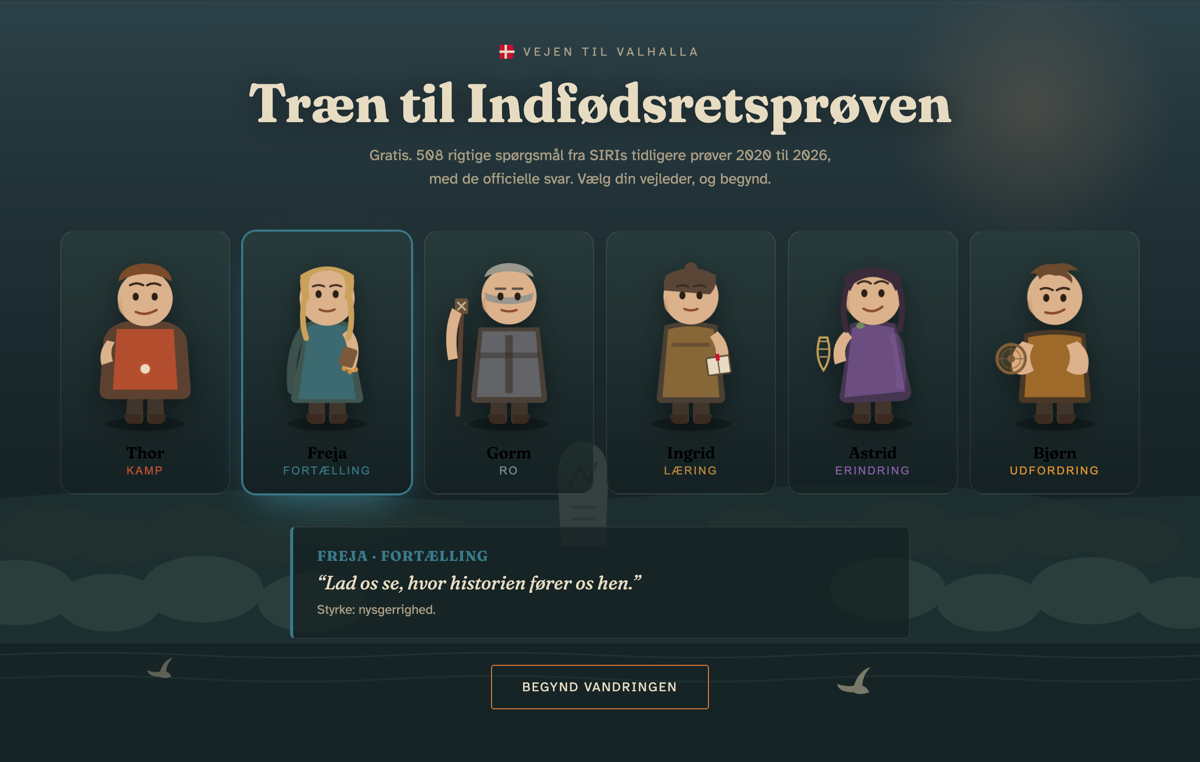
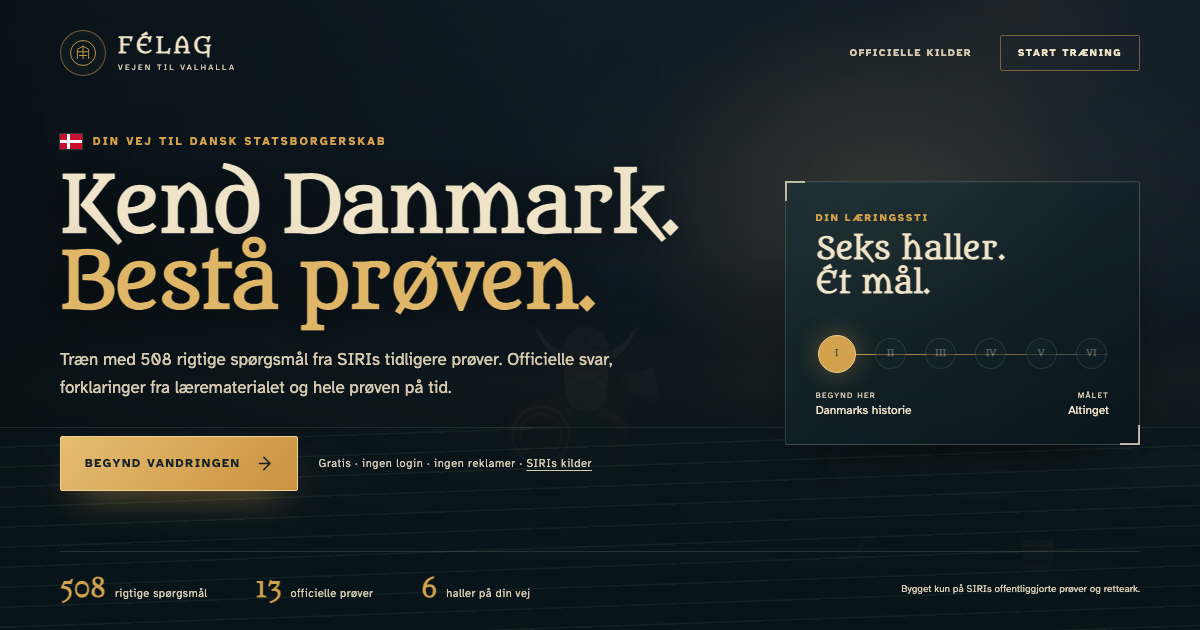
chore: prepare v0.0.14
Update the release badge and documented material dimensions, and replace the stale guide-picker social image with the responsive journey landing verified at 1200 by 630.

diff --git a/README.md b/README.md
@@ -6,7 +6,7 @@
 
 [![Open the site](https://img.shields.io/badge/Begynd%20vandringen-proteusiq.github.io%2Ffelag-d3a24c?style=for-the-badge)](https://proteusiq.github.io/felag/)
 
-[![Version](https://img.shields.io/badge/version-0.0.13-d3a24c?style=flat-square)](https://github.com/Proteusiq/felag/releases)
+[![Version](https://img.shields.io/badge/version-0.0.14-d3a24c?style=flat-square)](https://github.com/Proteusiq/felag/releases)
 [![Questions](https://img.shields.io/badge/spørgsmål-508-223448?style=flat-square)](data/questions.jsonl)
 [![Papers](https://img.shields.io/badge/prøver-13%20(2020–2026)-223448?style=flat-square)](https://danskogproever.dk/borger/indfoedsretsproeve-statsborgerskab/forberedelse-til-indfoedsretsproeven/)
 [![Price](https://img.shields.io/badge/pris-0%20kr-8fae8c?style=flat-square)](#)
@@ -75,7 +75,7 @@ Beyond them stand:
 - **Dysten**, a race against Bjørn or against a friend, settled under a raised banner or a struck one, with both scores side by side
 - **Tinget**, the five values questions, taught as ten principles rather than drilled
 - **Altinget**, the whole paper on the clock
-- **Sagaerne**, the læremateriale itself, cut into 57 stretches and sized by how much of the exam came off each one
+- **Sagaerne**, explanations from the læremateriale, cut into 56 stretches and sized by how much of the exam came off each one
 
 And on the road itself, the only date that matters: how many days until the ship
 puts in.
@@ -134,14 +134,14 @@ pinned, and fetched only when someone actually walks in.
 
 ## Sagaerne, where the reading is done
 
-The halls ask; the læremateriale answers, and it is 243 pages. Félag reads the
+The halls ask; the læremateriale answers, and it is 246 pages. Félag reads the
 book by its own typography rather than by guessing at its text — 38pt is a
 section number, 13pt in the heading face a heading, 13pt in the text face a
-table caption that only looks like one — and cuts it into **57 stretches**, each
+table caption that only looks like one — and cuts it into **56 stretches**, each
 holding the questions drawn from its pages. All 397 land in exactly one.
 
 Each stretch is a settlement sized by how much of the exam came off those pages,
-because the material is steeply uneven: ten pages of 243 hold 22 questions in
+because the material is steeply uneven: ten pages of 246 hold 22 questions in
 every 100, and 98 pages have never been examined at all. Those stand as
 **ødegårde**, the word for a farm left empty after the plague. The pages are
 there and nobody lives on them, which is worth knowing when you are studying
